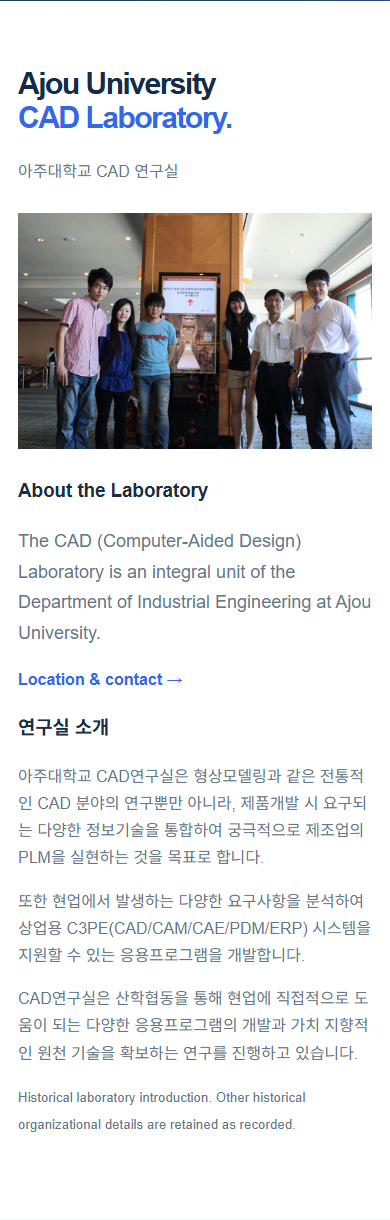
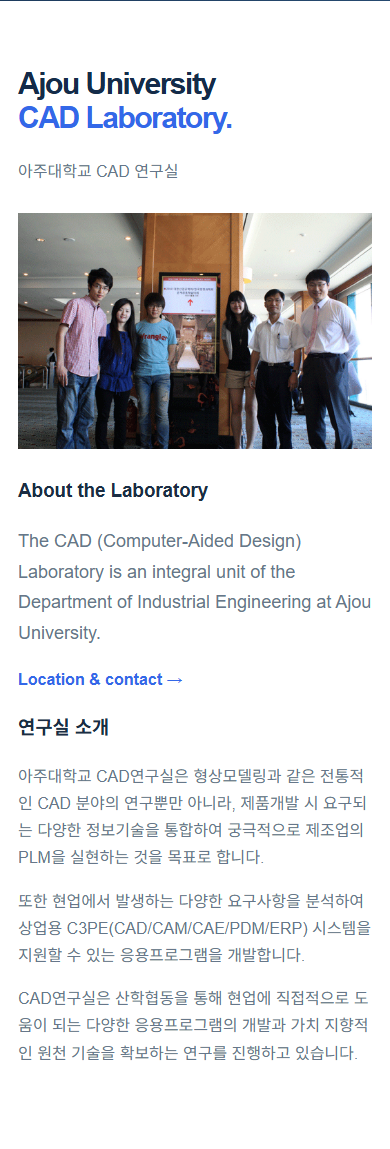
Remove historical note from homepage introduction

Changed region(s): [[0.0308, 0.0609, 0.9538, 0.9443]]

diff --git a/index.html b/index.html
@@ -109,10 +109,6 @@
         도움이 되는 다양한 응용프로그램의 개발과 가치
         지향적인 원천 기술을 확보하는 연구를 진행하고 있습니다.
       </p>
-      <p class="muted">
-        <small>Historical laboratory introduction. Other
-        historical organizational details are retained as recorded.</small>
-      </p>
     </div>
   </div>
 </section>

diff --git a/.github/review/hero/README.md b/.github/review/hero/README.md
@@ -25,3 +25,5 @@ Rewrites the three homepage People card descriptions for public-facing presentat
 ## Hero lower strips removed
 
 Removed the entire Hero bottom divider, CADLAB / RESEARCH & INNOVATION text, scroll prompt and OUR FOCUS strip as requested. The About section now follows the Hero directly. Five-width checks passed and Hero screenshots were refreshed.
+
+Removed the requested historical-context note at the end of the homepage About introduction. The remaining introduction and photo are preserved. Five-width checks passed; About screenshots refreshed.
